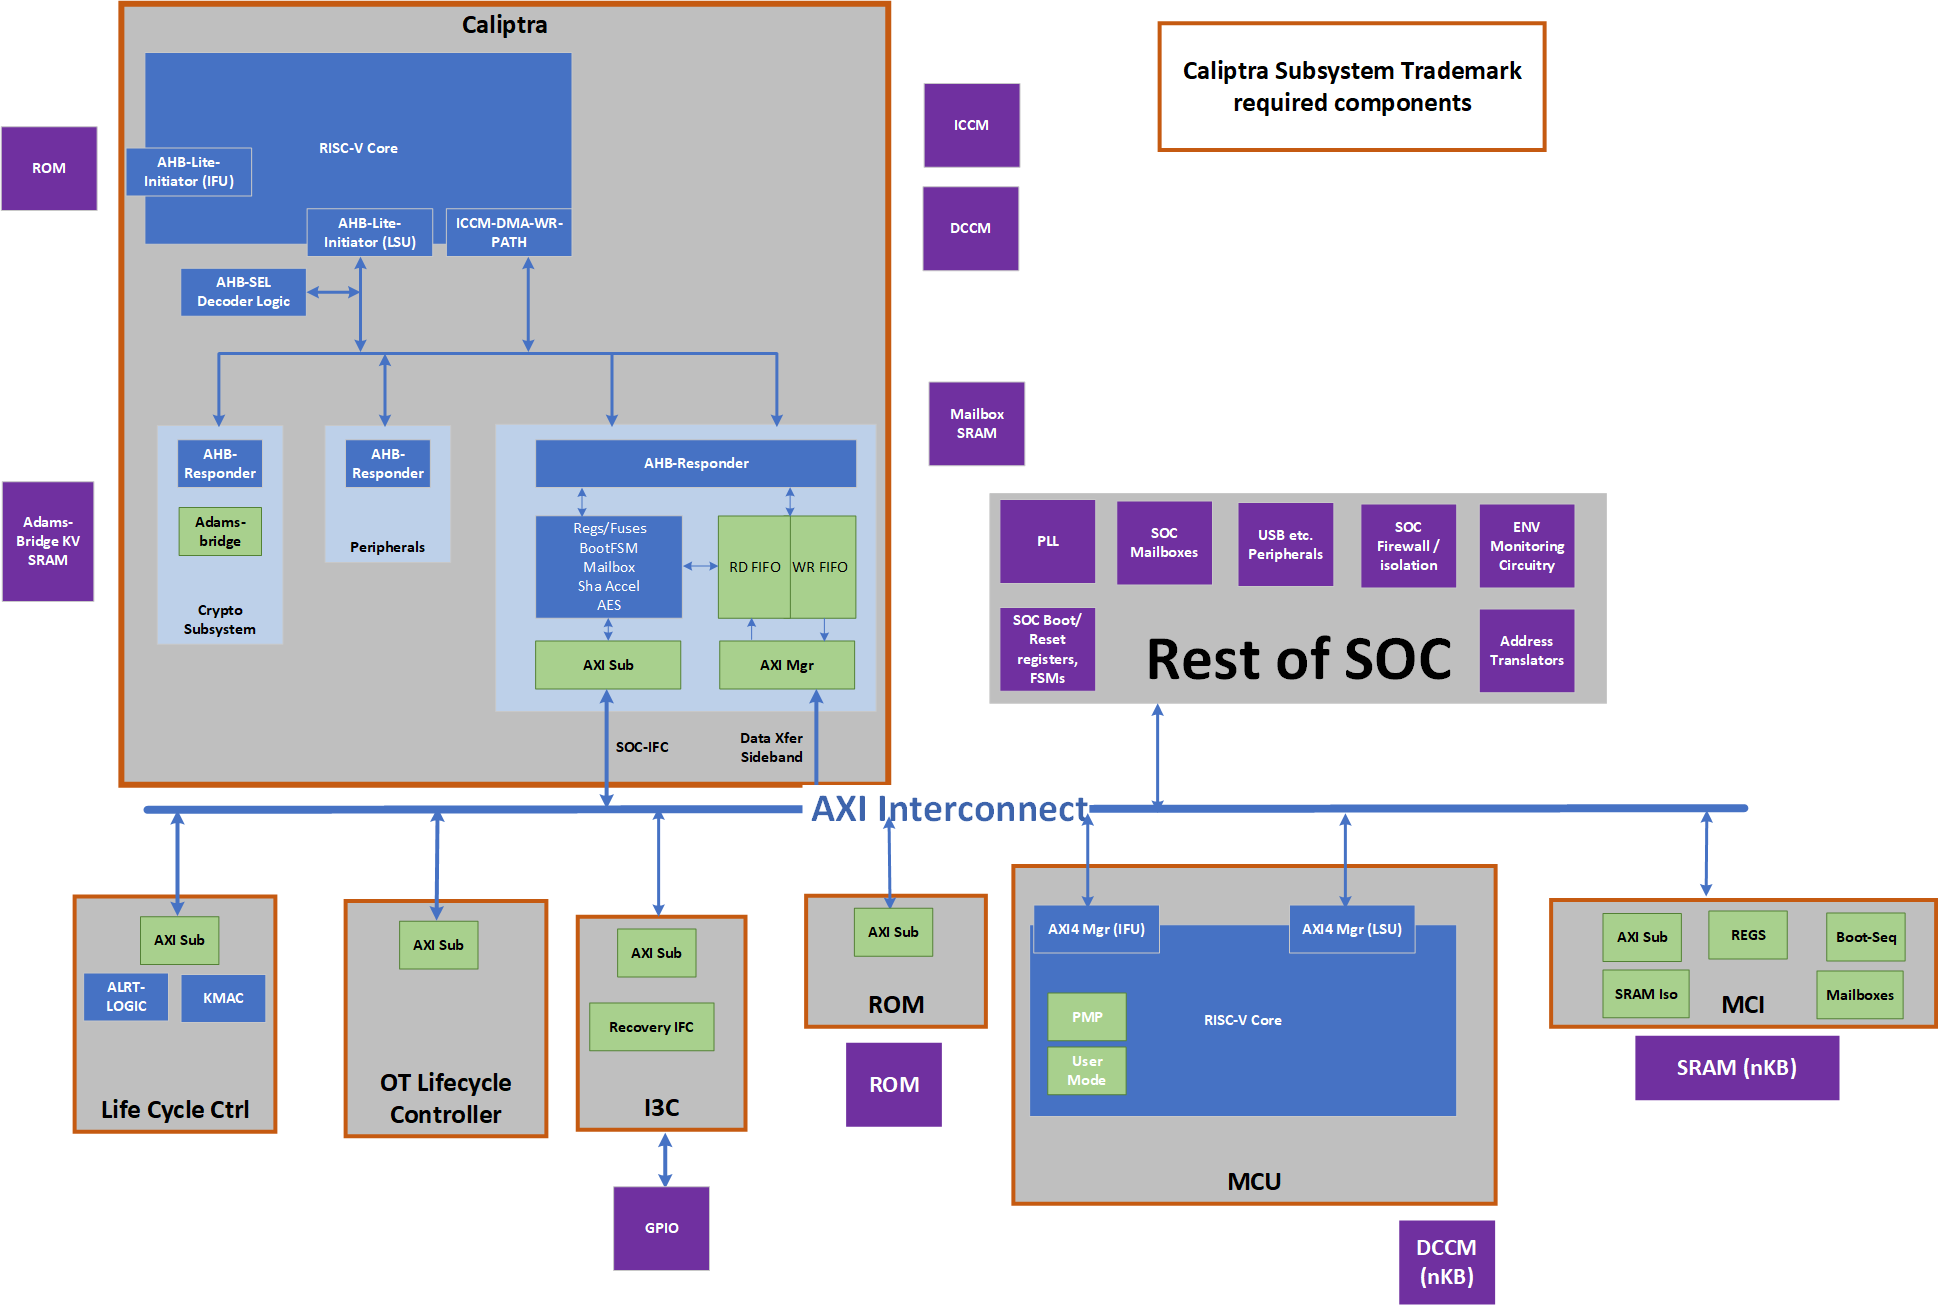
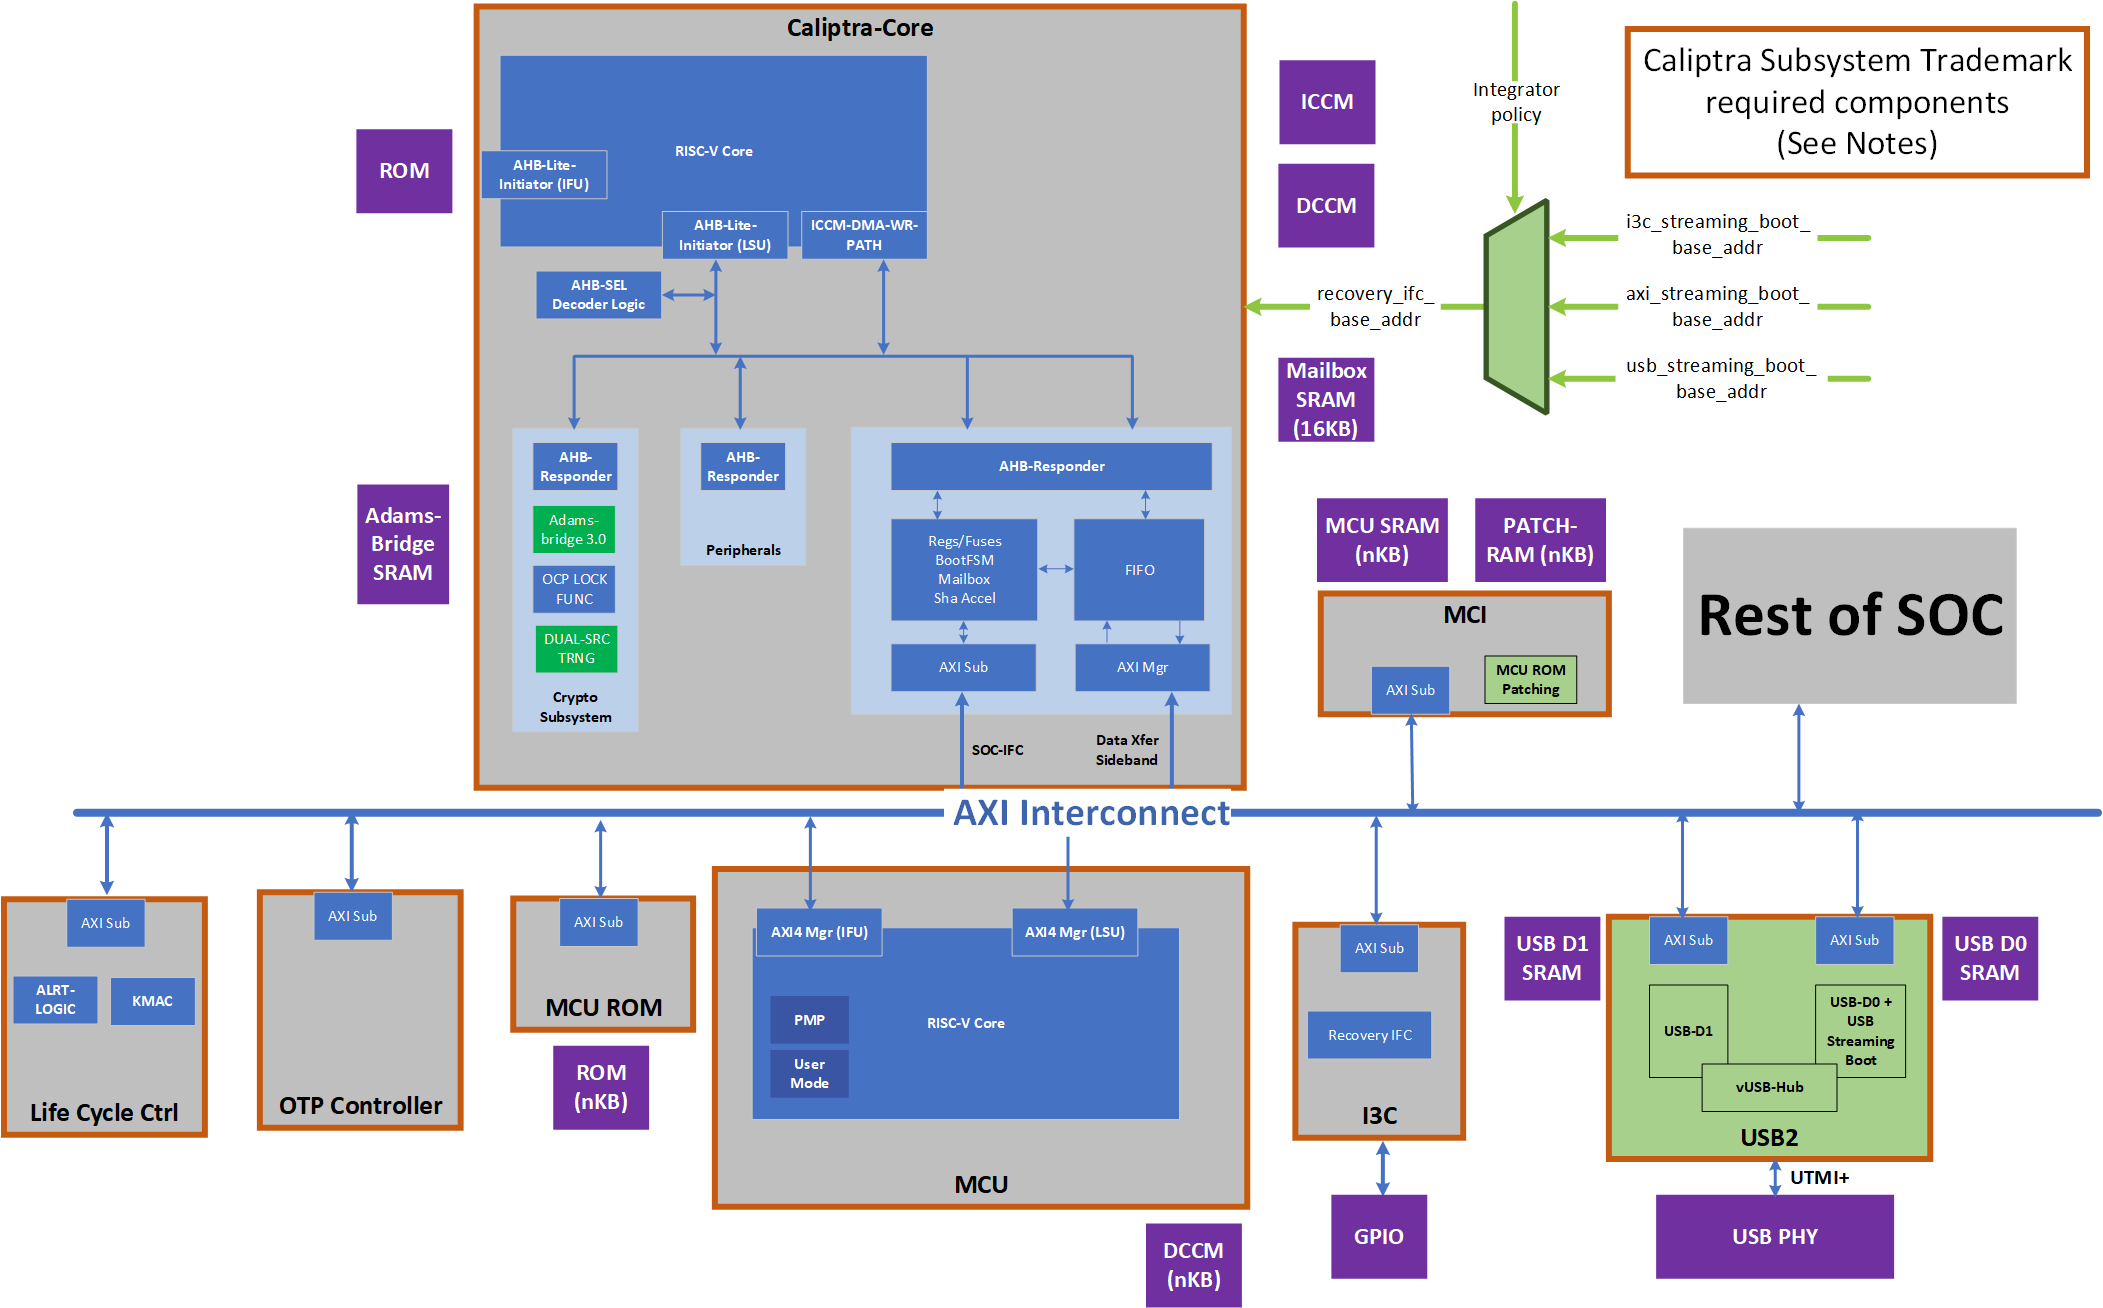
[DOC] Update Caliptra Subsystem Diagram for 2.2 (#1353)
* update Caliptra Subsystem Diagram for 2.2

* Draft release notes for 2.2

* version docs as 2p2 WIP

* Add note to README about release consumption

* Apply suggestion from @calebofearth

* Apply suggestion from @calebofearth

* Fix some imprecise language in release notes

* Remove executable property

* Apply suggestion from @calebofearth

diff --git a/Release_Notes.md b/Release_Notes.md
@@ -1,5 +1,53 @@
 # **Release Notes** #
 
+## Caliptra Subsystem pre-2.2 Release Notes (Draft)
+_*Status: Draft; not a final 2.2 release.*_
+
+USB streaming boot support, security hardening, and integration spec updates since 2.1.
+
+### 1. Caliptra Core
+- VeeR dual-core lockstep (DCLS), memory address-integrity checks, and DCCM write-readback
+- Shared masked HMAC-SHA-384/512 engine with updated seed and command interface (area/latency optimization)
+- Key Vault boot-policy enforcement, key-length checks, and zeroization fixes; AES key masking enhancements
+- Hardware ICCM SHA-384 measurement
+- Explicit ECC/ML-DSA verification status
+- Dual-iTRNG entropy combiner
+- DMA command limit increased to 2 GiB, with route-specific limits; response-tracking, mailbox ECC, and AXI access fixes
+- Adams Bridge upgraded to v3.0
+- Fixed security-state propagation after manufacturing/production debug unlock
+
+### 2. I3C
+- Updated I3C to v1p6 with recovery FIFO/PEC, CCC, IBI, and reset/error-handling improvements
+
+### 3. Life Cycle Controller (LCC)
+- Exposed lifecycle state validity, volatile RAW-unlock success, and escalation/check interfaces
+- Clarified token provisioning and scan exclusions
+
+### 4. Fuse Controller (FC)
+- Hardened debug-intent handling, secret digest access, and UDS/Field Entropy programming restrictions
+- Sticky PK-hash/ratchet-seed locks and lifecycle-qualified fuse-wrapper DFT enable
+- Multibit debug-lock controls
+
+### 5. Manufacturer Control Interface (MCI)
+- Hamming-coded boot FSM error detection
+- Default-enabled Caliptra Core DCLS detection control and configuration locking
+- Exclusive MCU mailbox SRAM ownership for image staging
+- Optional MCU ROM patch SRAM: loaded by MCU ROM in TEST/DEV lifecycle states before Caliptra core boots; a loaded patch zeroizes the UDS/Field Entropy delivered to Caliptra; released to SoC as data memory when unused.
+
+### 6. USB and MCU Peripherals
+- USB 2.0 virtual hub with two downstream devices: MCU-owned DEV0 and SoC-owned DEV1
+- DEV0 OCP Recovery over EP0 with an Indirect FIFO consumed by Caliptra over AXI
+- USB recovery selection, interrupts, packet-memory interfaces, and AXI USER filtering
+
+### Integration spec updates
+- Named integration/trademark requirements and exemption-request guidance
+- Clarified AXI USER isolation, USB access rules, clock/reset timing, CDC/RDC, and memory/fuse integration
+
+### Validation updates
+- Added USB hub/device/recovery/access-control, entropy, and boot-FSM tests
+- Expanded crypto, I3C, fuse/lifecycle, and mailbox checks; fixed false-pass and reset/error handling
+- Updated models, coverage, build flows, and register-generation checks
+
 ## Caliptra Subsystem 2p1 Release notes
 _*Release Date: 2025/10/12*_
 

diff --git a/README.md b/README.md
@@ -10,6 +10,12 @@ HW Design Collateral for Caliptra Subsystem, which comprises Caliptra RoT IP and
 [Caliptra Subsystem v2.1 Example Register Map](https://chipsalliance.github.io/caliptra-ss/v2_1/regs/?p=)<BR>
 [Caliptra Subsystem Example Register Map (main branch)](https://chipsalliance.github.io/caliptra-ss/main/regs/?p=)<BR>
 
+## **Release Consumption and Integration** ##
+Prior official releases are available at: https://github.com/chipsalliance/caliptra-ss/releases<br>
+Documentation for any consumed release must be pulled from the corresponding release branch, not from `main`.
+Releases are published as a tag, and also contain downloadable assets (which should not be used).
+Instead of downloading the assets attached to the published release, integrators should consume Caliptra Subsystem releases by pulling code from the repository at the associated tag, due to https://github.com/chipsalliance/caliptra-rtl/issues/471.
+
 ## **Tools Used** ##
 
 OS:

diff --git a/docs/CaliptraSSIntegrationSpecification.md b/docs/CaliptraSSIntegrationSpecification.md
@@ -3,7 +3,7 @@
 </div>
 
 <h1 align="center"> Caliptra Subsystem Integration Specification </h1>
-<h3 align="center"> Version 2p1 </h3>
+<h3 align="center"> Version 2p2 (WIP) </h3>
 
 - [Scope](#scope)
   - [Document Version](#document-version)

diff --git a/docs/CaliptraSSReleaseChecklist.md b/docs/CaliptraSSReleaseChecklist.md
@@ -2,7 +2,7 @@
 
 <p style="text-align: center;">Caliptra Subsystem Release Checklist</p>
 
-<p style="text-align: center;">Version 2p1</p>
+<p style="text-align: center;">Version 2p2 (WIP)</p>
 
 <div style="page-break-after: always"></div>
 
